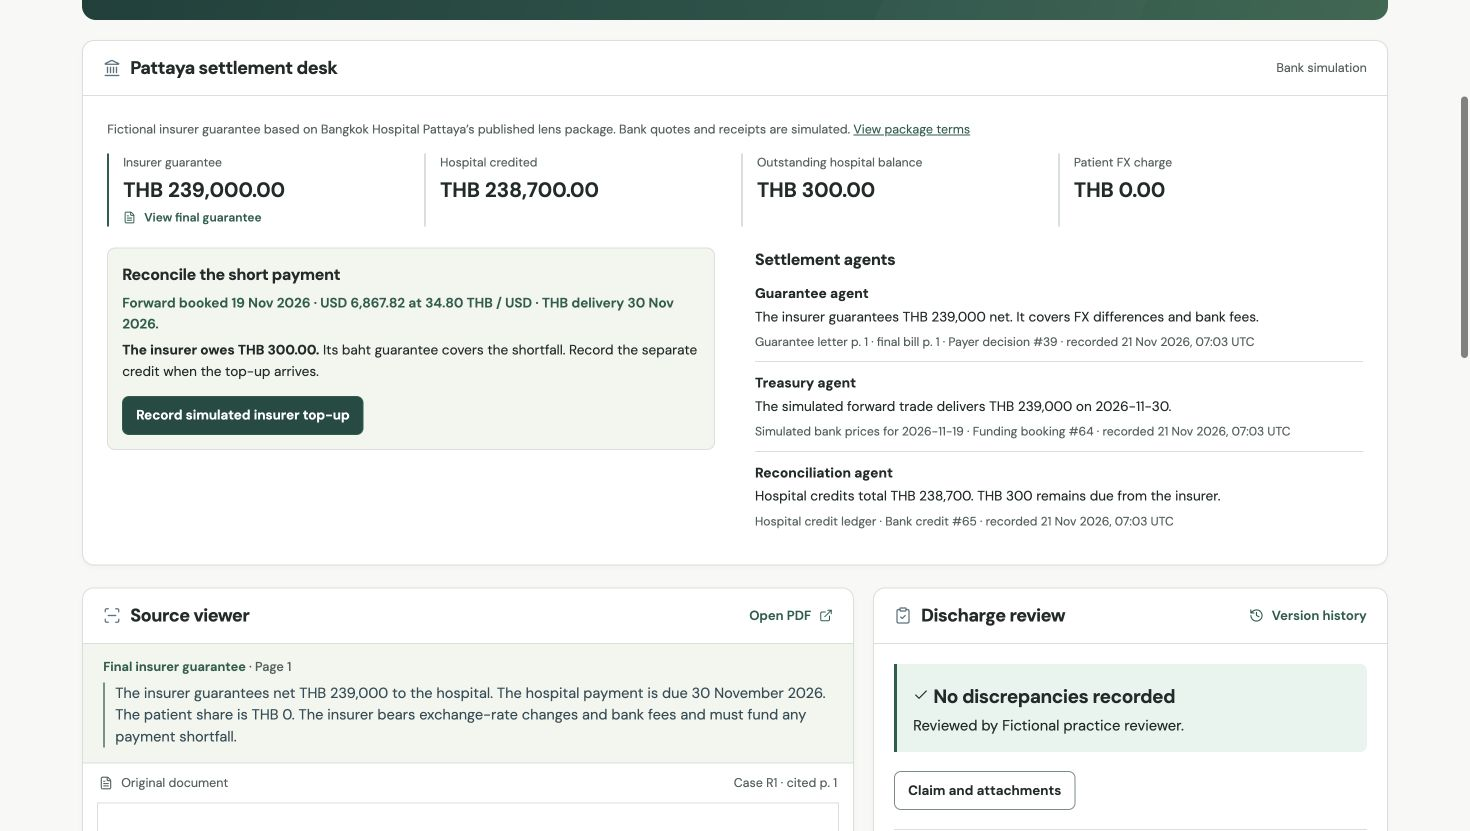
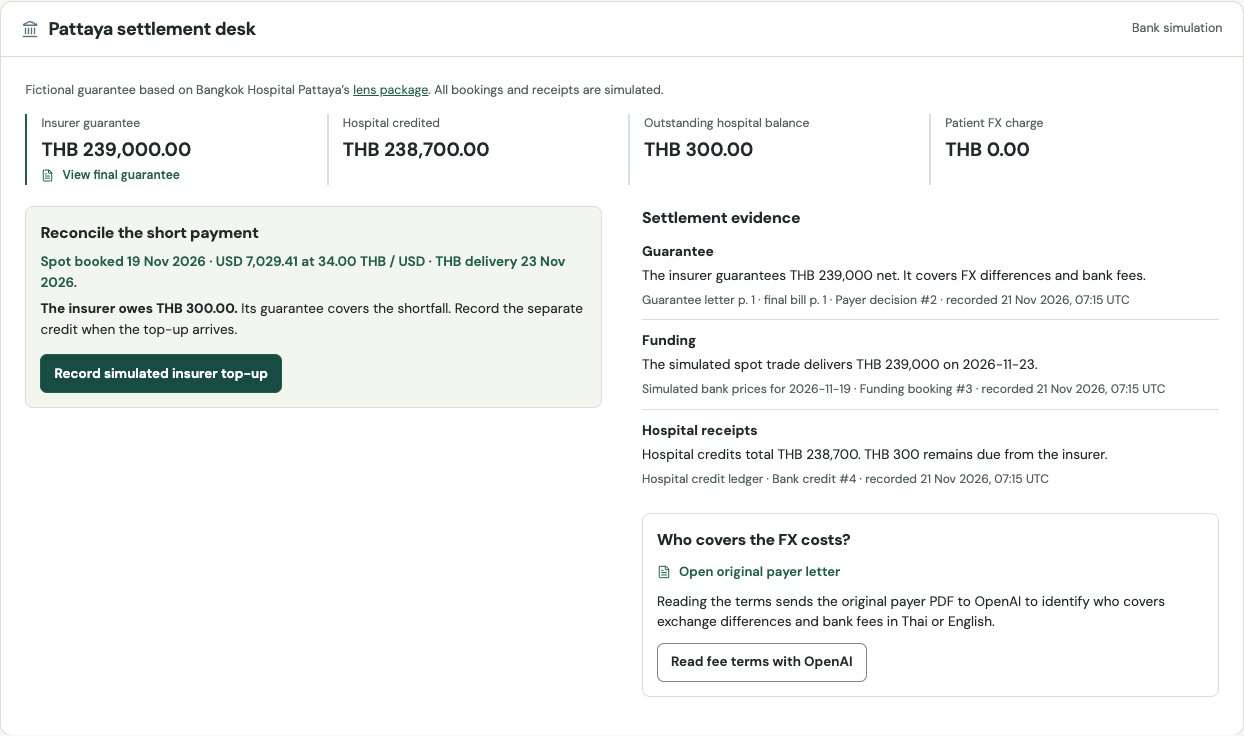
Document the judge funding and original-letter review with current screenshots

diff --git a/docs/demo.md b/docs/demo.md
@@ -27,14 +27,17 @@ Use the same practice claim. Save the one-page fictional reply to your computer 
 
 Bangkok Hospital Pattaya publishes a THB 239,000 multifocal lens replacement package covering both eyes and one inpatient night. The hospital describes checking the insurer’s guarantee and requesting an extension when costs or treatment change. The price and hospital workflow are public. The demo insurer, patient, approval, quotes and bank receipts are fictional. The scenario assumes the insurer has agreed to cover the whole package in THB, including any FX-related shortfall. [Published hospital package](https://www.bangkokhospital.com/en/pattaya/package/lens-replacement-surgery-package-bph) · [Hospital direct-billing process](https://www.bangkokhospital.com/en/pattaya/visit/insurance-bph)
 
-1. Open the Pattaya example from the local discharge worklist. Inspect the written THB 239,000 guarantee, the approved patient share of zero and the evidence used by the settlement agents.
-2. Compare the simulated spot and forward, then confirm one bank booking. The insurer buys baht with USD. From the simulated 19 November trade date, spot costs USD 7,029.41 for delivery on 23 November. The forward costs USD 6,867.82 for delivery on the 30 November hospital due date. Both prices are illustrative. The hospital still has a THB 239,000 receivable. Open a second example to try the other instrument.
-3. Record the simulated **THB 238,700** bank credit. The reconciliation agent assigns **THB 300** to the insurer and keeps the patient’s FX charge at zero. Refresh the case to see the outstanding balance.
-4. Confirm the simulated **THB 300** top-up. The two bank credits now match the guarantee. The claim can show paid.
+1. In the staffed [hospital directory](http://127.0.0.1:8040/), choose Canal Bridge and open **VISIT-CB-FX**. Lakeside has its own **VISIT-LS-FX**. On the local rehearsal worklist, **Open Pattaya case** creates a fresh example.
+2. The funding screen retrieves the historical USD/THB reference for the trade date. On 19 November 2026 the ECB reference from Frankfurter was **33.905 THB per USD**, equivalent to **USD 7,049.11** for THB 239,000 before fees. The public endpoint receives only the currency pair, date and publisher. If it is unavailable, retry or continue with the labeled simulated offers. [Frankfurter data source](https://frankfurter.dev/) · [Dated reference](https://api.frankfurter.dev/v2/rate/USD/THB?date=2026-11-19&providers=ECB)
+3. Choose the simulated spot offer for delivery on 23 November or the simulated forward for delivery on 30 November. Confirm the booking. The accepted price and delivery date stay in its recorded history. The THB 239,000 principal is still due to the hospital.
+4. Under **Who covers the FX costs?**, open the payer letter, or choose **Read fee terms with OpenAI** to send that original PDF. Each supported answer includes the original-language passage and a button to open its physical page. Exchange differences and bank fees can have different payers. Silence, conflicting terms or an unverifiable citation require staff review. This action is also available for general discharge claims with an attached current confirmed or partial payer decision.
+5. Record the simulated **THB 238,700** receipt. This fictional guarantee explicitly assigns the remaining **THB 300** to the insurer. Confirm the separate top-up when credited. The ledger then shows the hospital paid in full.
 
-![The reconciliation agent assigns the THB 300 shortfall to the insurer and shows zero patient FX charge.](figures/pattaya-settlement-shortfall.jpg)
+![Historical ECB reference and simulated spot and forward offers in the funding step.](figures/pattaya-funding.png)
 
-The local agents run without an API key. To enable the optional model-assisted review, configure the server with `WORKSPACE_ENABLE_PATTAYA_AI=1`, `OPENAI_API_KEY` and a tool-capable `OPENAI_MODEL` in local mode. When the coordinator opts in, the model can request the synthetic guarantee figures, funding terms and credit totals. The server checks its proposed next step against the ledger. Medical documents, names and bank account details stay outside the tool inputs. No bank is contacted. The booking models a deal with the insurer’s bank. FXall and 360T are possible execution venues for an onboarded treasury desk or bank. A venue connection and an actual beneficiary credit would each need independent confirmation in a pilot. [FXall corporate workflow](https://www.lseg.com/content/dam/fx/en_us/documents/fact-sheets/corporate-treasury-solutions-on-fxall-fact-sheet.pdf) · [360T bank workflow](https://www.360t.com/solutions/banks/)
+![The signed guarantee and recorded receipts support the remaining THB 300 balance.](figures/pattaya-settlement-shortfall.jpg)
+
+The market-data lookup is free and requires no key. The optional original-letter read uses the server’s OpenAI project credentials, `WORKSPACE_ENABLE_AI_REVIEW=1` and the configured `OPENAI_MODEL`. For scanned originals, enable `WORKSPACE_ENABLE_OCR=1` for independent page transcription. Staff can inspect the PDF whenever either service is unavailable. The reader is advisory and leaves the ledger untouched. Actual trading and remittance require a contracted provider and confirmation of the beneficiary credit.
 
 ## Other ways to explore
 

diff --git a/THIRD_PARTY.md b/THIRD_PARTY.md
@@ -36,7 +36,8 @@ The Python release also ships ReportLab’s Bitstream Vera and DarkGarden font a
 
 | Use | Components |
 | --- | --- |
-| Optional hosted processing | OpenAI Responses for model-assisted extraction, optional staff-triggered full-packet second reads, vision OCR and read-only tools for the fictional Pattaya settlement. The agentic comparison used a read-only page-zoom tool in the benchmark. The policy research suite separately uses embeddings, Vector Stores and hosted retrieval. These are hosted services with their own terms and metering. Digital workspace screening runs locally. The project key stays server-side. [Configuration](.env.example) · [Research modes](docs/cloud-rag.md) · [Service terms](https://openai.com/policies/services-agreement/) |
+| Historical FX data | Frankfurter’s free public API serves the ECB USD/THB reference for the synthetic trade date. The application sends the pair, date and publisher. Frankfurter data and the simulated bank offers are displayed separately. [API and open-source project](https://frankfurter.dev/) · [ECB provider](https://frankfurter.dev/providers/ecb) |
+| Optional hosted processing | OpenAI Responses for model-assisted extraction, optional staff-triggered full-packet second reads, vision OCR and a staff-triggered Thai/English fee-clause reader for an original payer decision. The agentic comparison used a read-only page-zoom tool in the benchmark. The policy research suite separately uses embeddings, Vector Stores and hosted retrieval. These are hosted services with their own terms and metering. Digital workspace screening runs locally. The project key stays server-side. [Configuration](.env.example) · [Research modes](docs/cloud-rag.md) · [Service terms](https://openai.com/policies/services-agreement/) |
 | Local and release builds | CPython, uv, Node.js, npm, TypeScript, the Vite React plugin and Vite. Docker builds use the Node and Python Debian Bookworm images and Astral's uv build image. Python’s base image also includes pip. PostgreSQL runs separately. [Dockerfile](Dockerfile) · [Release guide](docs/deployment.md) |
 | CI and source control | Git, GitHub, GitHub Actions hosted runners, actions/checkout, actions/setup-node and astral-sh/setup-uv. The workflow pins action revisions. [Workflow](.github/workflows/preflight.yml) |
 | Rehearsal tools | Python unittest, HTTPX, PostgreSQL command-line tools and OpenSSL for local TLS release testing. Poppler utilities inspect or rasterize selected research samples. Browser verification uses Playwright and Chromium on the development machine. |

diff --git a/docs/hackathon-declaration.md b/docs/hackathon-declaration.md
@@ -17,7 +17,7 @@ The workspace lets hospital staff reconcile an inpatient discharge claim against
 | Thai and US payer-form checks | Built edition-specific comparisons for IDs, totals and payment recipients on AIA, CMS and FEP forms. Created synthetic cases with frozen expected results, including manual review for ambiguous fields. | [AIA reader](../app/payer_aia.py) · [US reader](../app/payer_us.py) · [First-run results and misses](payer-holdout.md) |
 | Optional OpenAI second read | Added a staff-triggered multimodal read with citations. A Codex-assisted fix recovered the supporting invoice page when the model found conflicting member IDs but cited only the form. | [Reader](../app/payer_ai_reader.py) · [Fix](https://github.com/aowngong/ZeroUpfront/commit/b4d21f1334f96a03d87c93addf2d5188b2caca9b) · [Evidence replay](../bench/payer_citation_replay.py) |
 
-The Pattaya practice case adds a fictional baht guarantee, simulated bank funding and a receipt-by-receipt reconciliation of who owes the shortfall. The THB 239,000 public package price informed the fixture. The hospital, any real insurer, banks and trading venues did not provide the demo records. [Pattaya rehearsal and sources](demo.md#pattaya-fx-rehearsal)
+The Pattaya practice case adds a fictional baht guarantee, simulated bank funding and a receipt-by-receipt reconciliation of who owes the shortfall. The team integrated Frankfurter’s historical ECB reference directly into the funding screen and built an optional Thai/English original-letter reader with physical-page citation checks. The THB 239,000 public package price informed the fixture. The hospital, any real insurer, banks and trading venues did not provide the demo records. [Pattaya rehearsal and sources](demo.md#pattaya-fx-rehearsal)
 
 The live hospital app adopts the team’s DM Sans typography, forest-green case header, horizontal navigation and document-first review layout. The standalone hospital and insurer design prototype demonstrates pre-arrival review and the guarantee handoff with synthetic cases. It embeds the project’s Z002 documents, Solar icons and the Archivo, DM Sans and IBM Plex Mono fonts. Both HTML pages include the asset notices. [Prototype and review guide](workspace-review/README.md)
 

diff --git a/README.md b/README.md
@@ -25,7 +25,7 @@ uv run --locked python app/run_workspace.py
 2. Open the finding. Page 2 shows the same pharmacy item twice. Choose **Try corrected bill**, inspect the replacement, confirm it belongs to the encounter and select **Save corrected packet**.
 3. Choose **Review discharge packet**, review the attachments and select **Mark packet reviewed**. Open **Claim and attachments** to preview the originals or download the reviewed PDF. **Version history** still opens the first bill.
 
-For the **Pattaya FX rehearsal**, open the Pattaya practice case from the discharge worklist. Inspect the insurer’s THB 239,000 guarantee, compare a simulated bank spot and forward, and reconcile the hospital’s THB 238,700 credit. The settlement agents show who owes the THB 300 balance and the evidence for closing it. [Rehearse the Pattaya case](docs/demo.md#pattaya-fx-rehearsal)
+For the **Pattaya FX rehearsal**, sign in to Canal Bridge and open **VISIT-CB-FX**. Compare the ECB’s dated USD/THB reference from Frankfurter with the two simulated bank offers. Open the original guarantee or choose **Read fee terms with OpenAI** for page-cited Thai or English evidence. Record the THB 238,700 receipt against the THB 239,000 guarantee and follow the THB 300 balance through settlement. [Pattaya walkthrough](docs/demo.md#pattaya-fx-rehearsal)
 
 The hospital app uses the team’s forest-green workspace design. On desktop the original PDF and review action appear side by side. On a phone, tap a citation to jump to the page. The separate insurer handoff prototype uses fictional records saved in the browser. [Hospital and insurer design guide](docs/workspace-review/README.md)
 

diff --git a/docs/hospital-workspaces.md b/docs/hospital-workspaces.md
@@ -23,6 +23,7 @@ uv run --locked python -m app.hospital_demo password lakeside
 
 | Encounter | What to try |
 | --- | --- |
+| VISIT-CB-FX or VISIT-LS-FX | Compare the dated FX reference with simulated bank funding, inspect the bilingual fee reader and reconcile a THB 300 short receipt. [Pattaya walkthrough](demo.md#pattaya-fx-rehearsal) |
 | VISIT-CB-001 or VISIT-LS-001 | Open the duplicate pharmacy charge and inspect page 2. Preview the corrected bill, confirm the encounter and save. Review the new revision, preview the attachments and open the reviewed export. The first bill remains in version history. |
 | VISIT-CB-002 or VISIT-LS-002 | Review a complete packet directly. Record the external submission and the payer’s response as separate events. |
 | VISIT-CB-003 or VISIT-LS-003 | Compare the final bill with the lower authorization ceiling in the payer letter. The hold calls for evidence or payer follow-up. |
